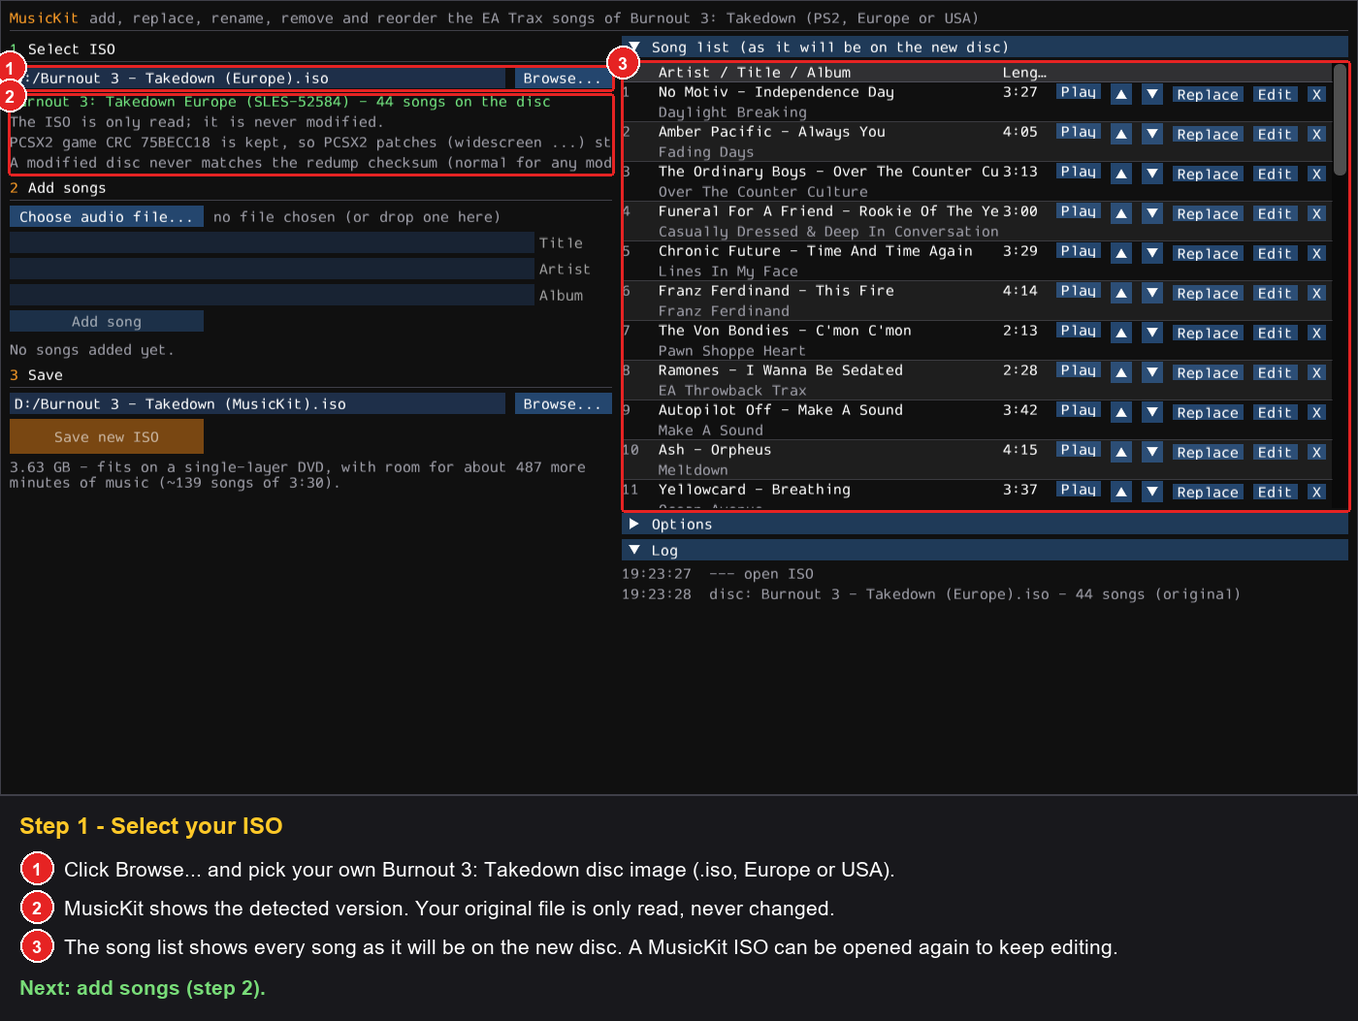
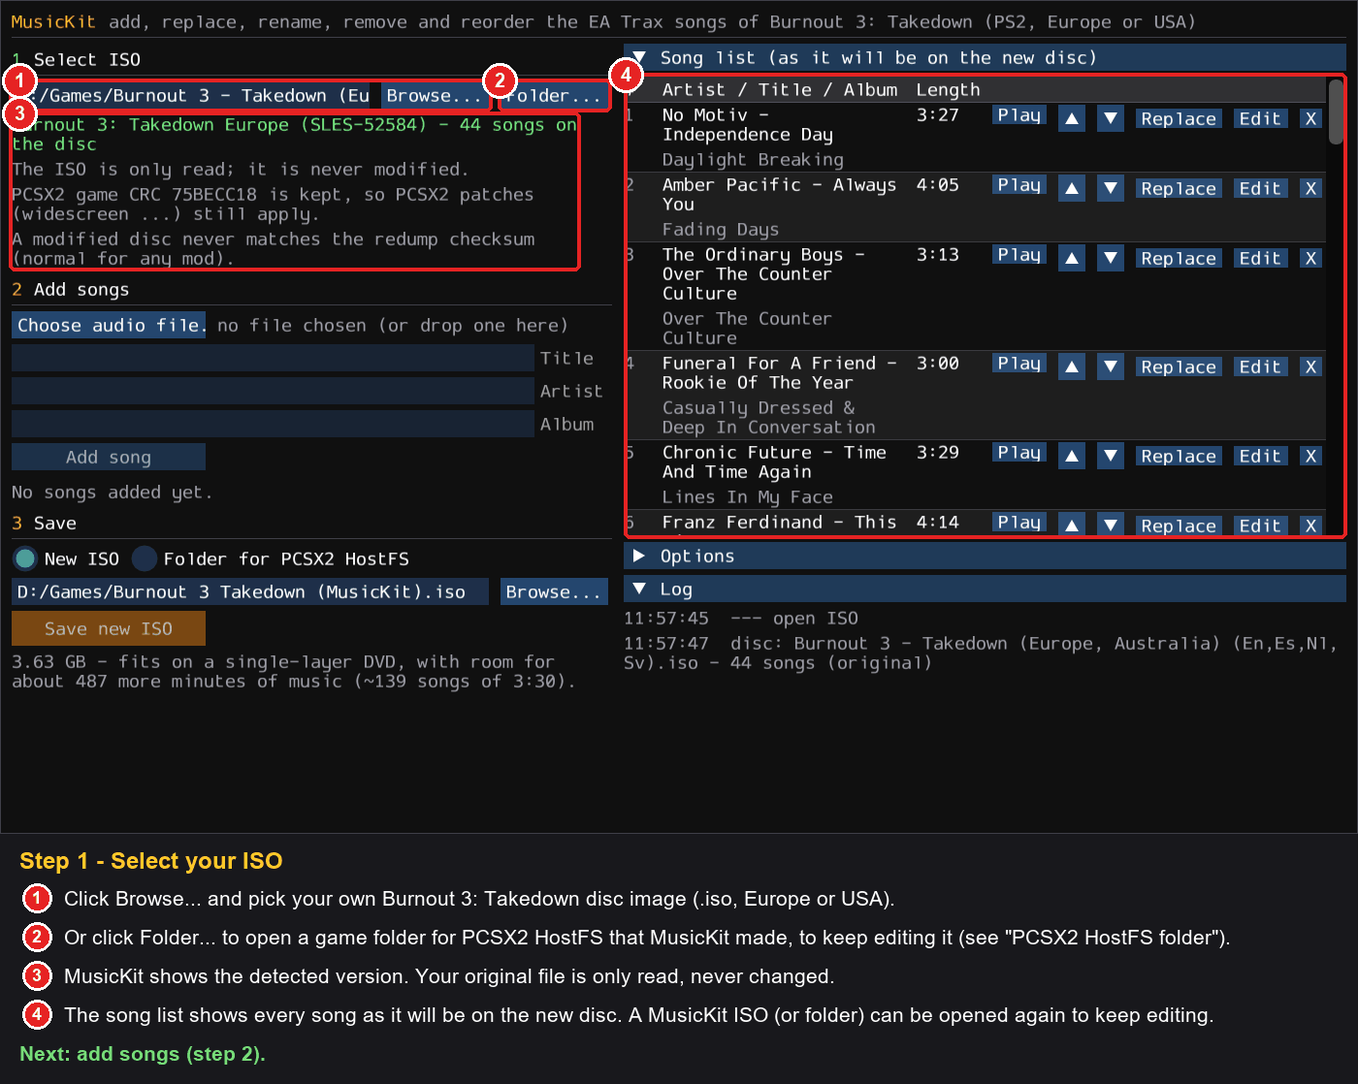
README: HostFS folder, combining mods, setup, new screenshots
- Install: Python 3.12-3.15 or none (private Python 3.13), what the setup does
- PCSX2 HostFS folder: save step by step, Play it in PCSX2 (Nahelam's patches,
  pnach names), combining mods, folders made by other tools
- Screenshots re-made for the current window (Folder..., output choice,
  HostFS before/after saving) and PCSX2 settings for HostFS

diff --git a/README.md b/README.md
@@ -12,9 +12,10 @@ song, the original ones included.
   - Europe / Australia — `SLES-52584` (English, Spanish, Dutch and Swedish texts)
   - Europe — `SLES-52585` (French, German and Italian texts)
   - USA — `SLUS-21050`
-- Your original image is **only read, never modified**; MusicKit writes a **new** `.iso`.
-- Songs: MP3, FLAC, WAV, OGG, M4A … (anything ffmpeg can read), up to 95 songs in total.
-- Add, replace, rename, remove and reorder songs — and reopen an image MusicKit made to keep editing it.
+- Your original image is **only read, never modified**; MusicKit writes a **new** `.iso` — or, for PCSX2, saves
+  into a **game folder** ([PCSX2 HostFS](#pcsx2-hostfs-folder-no-new-iso)), where later changes take seconds.
+- Songs: MP3, FLAC, WAV, OGG, M4A … (anything ffmpeg can read), up to **95 songs** in total.
+- Add, replace, rename, remove and reorder songs — and reopen an image (or folder) MusicKit made to keep editing it.
 - Optional: **Allow switching any song OFF** in the game's EA Trax list (see [below](#allow-switching-any-song-off)).
 - The new image keeps the game's PCSX2 CRC (`75BECC18` Europe SLES-52584, `CE49B0DE` Europe SLES-52585, `BEBF8793` USA), so **PCSX2 still recognises the
   game and applies its patches** (widescreen etc.).
@@ -35,12 +36,13 @@ song, the original ones included.
 ### Step 3 — Arrange the song list (optional)
 ![Step 3 - replace, rename, remove and reorder songs](docs/images/step3_song_list.png)
 
-### Step 4 — Save a new ISO
+### Step 4 — Save a new ISO (or a PCSX2 HostFS folder)
 ![Step 4 - save the new ISO](docs/images/step4_save.png)
 
 Before you save, MusicKit shows the size of the new image and how much more music still fits on a single-layer
 DVD (4.7 GB) — calculated from *your* image. If it would not fit, you see a warning; you can still save it (see
-[FAQ](#faq)).
+[FAQ](#faq)). For PCSX2 you can choose **Folder for PCSX2 HostFS** instead — see
+[PCSX2 HostFS folder](#pcsx2-hostfs-folder-no-new-iso).
 
 ### Step 5 — Play
 Load the new `.iso` in PCSX2 (or burn it / run it on your PS2) and open **Driver Details → EA GAMES™ TRAX**.
@@ -51,9 +53,9 @@ Load the new `.iso` in PCSX2 (or burn it / run it on your PS2) and open **Driver
 
 ## Guides
 
-Nothing is written until you click **Save new ISO** — every change below is only collected in the song list
-(right side), which shows the soundtrack exactly as it will be on the new disc. **Undo all changes** goes back to
-the song list of the opened image.
+Nothing is written until you click **Save new ISO** (or **Save to folder**) — every change below is only collected
+in the song list (right side), which shows the soundtrack exactly as it will be on the new disc. **Undo all
+changes** goes back to the song list of the opened image.
 
 ### Add songs
 *Choose audio file…* (or drop files on the window), type title / artist / album, click **Add song**. New songs are
@@ -78,7 +80,8 @@ Use ▲ / ▼ to move a song. Moved songs are tagged *[was #N]* with their old p
 
 ### Reopen a MusicKit ISO and keep editing
 Select an image MusicKit made in step 1: its current song list is read back from the disc (added and replaced
-songs are recognised). Change it like any other image and save another **new** `.iso`.
+songs are recognised). Change it like any other image and save another **new** `.iso`. A HostFS folder is opened
+with **Folder...** instead and saved into itself.
 
 ### Allow switching any song OFF
 In the original game the EA Trax list only lets you switch a song **OFF** after it has played to the end once —
@@ -108,25 +111,31 @@ the names fit. Names of removed songs make room for new ones.
 With PCSX2 you can also save your soundtrack into a **folder** instead of a new disc image. PCSX2's *Host
 Filesystem* then loads the game's files straight from that folder:
 
-- the first save copies the game's files from your ISO into the folder (once, about 3.5 GB);
+- the first save copies the game's files from your ISO into the folder (once, about 3.6 GB);
 - every later save only rewrites the files MusicKit changes (the song files, the song names and the game
   executable) — no new ISO each time, a save takes seconds;
-- there is no disc size limit in a folder.
+- there is no disc size limit in a folder;
+- **PCSX2 only** — a folder does not work on a real PS2.
 
-PCSX2 only (not a real PS2). The Criterion games need a small PCSX2 cheat to read from a folder:
+The Criterion games need a small PCSX2 cheat to read from a folder:
 **Nahelam's HostFS patches** ([PCSX2-HostFS-Patches](https://github.com/Nahelam/PCSX2-HostFS-Patches), folder
 [Criterion Games](https://github.com/Nahelam/PCSX2-HostFS-Patches/tree/main/Criterion%20Games)) — thanks to
 [Nahelam](https://github.com/Nahelam) for making them. MusicKit does not include that cheat; you download it once.
 
 ### Save into a folder
 1. Select your ISO in step 1 as usual and change the songs.
-2. In step 3 choose **Folder for PCSX2 HostFS** and pick an **empty folder** (or the folder of an earlier save).
+2. In step 3 choose **Folder for PCSX2 HostFS** and **Browse...** to an **empty folder** (or the folder of an
+   earlier save).
 3. Click **Save to folder**. MusicKit writes the game's files and a small boot image
-   `Burnout 3 Takedown (HostFS).iso` into the folder (it holds only `SYSTEM.CNF` and the game executable and is rebuilt on
-   every save).
+   `Burnout 3 Takedown (HostFS).iso` into the folder (it holds only `SYSTEM.CNF` and the game executable and is
+   rebuilt on every save).
+
+![Save into a PCSX2 HostFS folder](docs/images/hostfs_save.png)
 
 To change the songs again, open the folder in step 1 with **Folder...** (or click *Open this folder here* after
 saving) and save again — it is saved into itself. Your ISO is never changed.
+
+![After saving: open the folder again, and how to play it in PCSX2](docs/images/hostfs_saved.png)
 
 ### Play it in PCSX2 (once)
 1. Download the cheat for your version from
@@ -137,68 +146,84 @@ saving) and save again — it is saved into itself. Your ISO is never changed.
    - USA (SLUS-21050): `SLUS-21050_BEBF8793_hostfs.pnach`
 
    Put it into PCSX2's `cheats` folder (PCSX2: *Tools → Open Data Directory*).
-2. Add your folder to PCSX2's game list (*Settings → Game List → Add...*, without recursive scan). It shows
-   `Burnout 3 Takedown (HostFS).iso`.
+2. Add your folder to PCSX2's game list (*Settings → Game List → Add...*, without recursive scan). The game appears
+   as **Burnout 3 - Takedown**, only a few MB in size: that is the boot image `Burnout 3 Takedown (HostFS).iso`.
 3. Right-click it → *Properties*: on the *Emulation* page switch on **Enable Host Filesystem**; on the *Cheats* page
    switch on **Enable Cheats** and tick **HostFS**.
-4. Start `Burnout 3 Takedown (HostFS).iso`.
+4. Start it from the game list.
+
+![PCSX2: the folder in the game list, Enable Host Filesystem, Enable Cheats + HostFS](docs/images/pcsx2_hostfs.png)
 
 The game CRC stays the same, so PCSX2's widescreen patches and your other cheats still apply. MusicKit shows these
-steps after saving, too.
+steps after saving, too. As Nahelam notes, with the HostFS cheat the network configuration and the Need for Speed
+demo on the disc cannot be started (save your network settings on the memory card first if you play online).
 
-As Nahelam notes, with the HostFS cheat the network configuration and the Need for Speed demo on the disc cannot be started (save your network settings on the memory card first if you play online).
+- **Stop the game before you save** into its folder: the running game keeps its files open. On Windows MusicKit
+  then refuses to save (nothing is changed) and tells you why; restart the game after saving.
+- **Linux:** the game asks for its files in mixed letter case while the disc stores them in upper case. That only
+  works in a case-insensitive folder — on ext4 for example an empty folder with casefold switched on (`chattr +F`,
+  needs a file system created with casefold support). MusicKit warns when the folder is case-sensitive but still
+  lets you save and try. Windows and macOS (default file system) need nothing special.
 
-**Stop the game before you save** into its folder: the running game keeps its files open. On Windows MusicKit
-then refuses to save (nothing is changed) and tells you why; restart the game after saving.
+### Combining mods
 
-**Linux:** the game asks for its files in mixed letter case while the disc stores them in upper case. That only
-works in a case-insensitive folder — on ext4 for example an empty folder with casefold switched on (`chattr +F`,
-needs a file system created with casefold support). MusicKit warns when the folder is case-sensitive but still lets
-you save and try. Windows and macOS (default file system) need nothing special.
+- **Saving again:** always open the folder (not your ISO) and save — only the changed files are rewritten.
+- **Your ISO into a folder that already has the game:** MusicKit replaces only its own changes from your ISO. If
+  another mod changed the game executable there, MusicKit refuses (nothing is changed) and tells you to open the
+  folder instead — or pick an empty folder to start again from your ISO.
+- **Other mods are kept:** other people's file mods (replaced cars, textures, videos, extra files) are never
+  touched — MusicKit writes only the files it manages — and texts other mods changed in the game's text files
+  stay too. `validate` lists such files as notes, not as errors.
+- **PCSX2 cheats and patches** (widescreen etc.) keep working: the game CRC stays the same. The *HostFS* cheat is
+  only for the folder — **untick it** before you start a normal ISO of the same game (with it on, the ISO does not
+  start).
 
-### Other mods in the same folder
+<details>
+<summary><b>Folders made by other tools (7-Zip, Nahelam's guide) and what was tested</b></summary>
 
-- **Saving your ISO into a folder that already has the game** replaces only MusicKit's own changes from your ISO.
-  When another kit or mod changed the game executable there, MusicKit refuses (nothing is changed) and tells you
-  to open the folder instead (or to pick an empty folder to start again from your ISO).
-- **Other people's file mods** (replaced cars, textures, videos, extra files) are never touched: MusicKit writes only
-  the files it manages. Texts other mods changed in the game's text files are kept too. `validate` lists such
-  files as notes, not as errors.
-- **PCSX2 cheats** (widescreen and other patches) keep working: the game CRC stays the same. The per-game
-  *HostFS* cheat is only for the folder — **untick it** before you start a normal ISO of the same game
-  (with it on, the ISO does not start).
-- **Folders made by other tools** work: a folder extracted with 7-Zip, or set up as in Nahelam's guide (your own ISO
-  inside the folder). Start `Burnout 3 Takedown (HostFS).iso` then — your own ISO in the folder still starts the
-  game's original executable, without MusicKit's changes to it. MusicKit explains what to do when names still end in
-  `;1` (extract again with 7-Zip), when you picked the folder above the game's files, or when files are missing (an
-  unfinished extraction: save from your ISO into the folder and the missing files are copied).
+- A folder extracted with 7-Zip, or set up as in Nahelam's guide (your own ISO inside the folder), works. Start
+  `Burnout 3 Takedown (HostFS).iso` then — your own ISO in the folder still starts the game's original executable,
+  without MusicKit's changes to it.
+- MusicKit explains what to do when names still end in `;1` (extract again with 7-Zip), when you picked the folder
+  above the game's files, or when files are missing (an unfinished extraction: save from your ISO into the folder
+  and the missing files are copied).
+- Tested in PCSX2 2.8 (Europe discs): songs that exist only in the folder play from the folder in menus and races
+  (the boot image holds only `SYSTEM.CNF` and the executable); other mods' files and texts stayed unchanged through
+  every save.
 
-Tested in PCSX2 2.8 (Europe discs): songs that exist only in the folder play from the folder in menus and races (the
-boot image holds only `SYSTEM.CNF` and the executable); other mods' files and texts stayed unchanged through every
-save.
-
-Command line ([optional](#command-line-optional)): `build --iso "Burnout 3 - Takedown (Europe).iso" --folder "<folder>"`
-saves into a folder; `--iso "<folder>"` opens one (it is then saved into itself); `validate "<your ISO>" "<folder>"`
-checks a folder.
+</details>
 
 ## Requirements
 
 | What | Details |
 |---|---|
 | Operating system | Windows 10 or 11 (64-bit), macOS 14 Sonoma or newer (Apple Silicon or Intel), or 64-bit Linux (x86_64 or aarch64, glibc 2.28+; tested on Ubuntu 22.04 / 24.04) |
-| Python | any Python 3.12 or newer, or none at all — the setup picks an installed Python for which every package is available ready-made, or downloads a private Python 3.13 into the `.python` folder (no admin rights needed, about 100 MB) |
+| Python | Python 3.12 – 3.15 (64-bit), or none at all: the setup uses an installed Python for which every package is available ready-made, otherwise it downloads a private Python 3.13 into the `.python` folder (no admin rights needed, about 100 MB) |
 | Python packages | installed automatically by `setup.bat` / `setup.command` / `setup.sh` into a private `.venv`: numpy, numba, glfw, PyOpenGL, imgui-bundle, Pillow, soundfile, pyloudnorm, pycdlib, pytest (see [requirements.txt](requirements.txt)) |
 | ffmpeg | downloaded automatically by `setup.bat` / `setup.command` / `setup.sh` (or install it yourself: Windows `winget install Gyan.FFmpeg`, macOS `brew install ffmpeg`, Linux your package manager, e.g. `sudo apt install ffmpeg`) |
 | Graphics | any GPU with OpenGL 3.3 (for the MusicKit window) |
-| Disk space | about 5 GB free for the new disc image (~3–4 GB) plus ~1 GB for Python packages and ffmpeg |
+| Disk space | about 5 GB free for the new disc image (~3–4 GB) — or about 4 GB for a HostFS folder — plus ~1 GB for Python packages and ffmpeg |
 | The game | your own disc image (.iso) of Burnout 3: Takedown for PS2: Europe `SLES-52584` or `SLES-52585`, or USA `SLUS-21050` |
 | Internet | only once, during `setup.bat` / `setup.command` / `setup.sh` |
 
+### What the setup does
+The setup scripts never compile anything and change nothing outside the MusicKit folder:
+
+1. They look for an installed 64-bit Python (3.12 – 3.15) and use the first one for which **every** package is
+   available ready-made, in a private environment `.venv`.
+2. If there is no Python, or none can install the packages (e.g. a brand-new Python 3.15 before the packages have
+   caught up), they download a **private Python 3.13** into the `.python` folder with
+   [uv](https://astral.sh/uv) (download checked against a checksum) and use that one.
+3. They get **ffmpeg** (an installed one is used when present).
+
+Run the setup again at any time: it updates the packages, or rebuilds `.venv` if it no longer works (e.g. after
+you removed the Python it was made with). `MUSICKIT_PRIVATE_PYTHON=1` makes it skip the installed Pythons.
+
 ## Installation (Windows 10 / 11)
 
-1. Optional: install **Python 3.12 or newer** from <https://www.python.org/downloads/> (tick *"Add python.exe to PATH"*).
-   Without it, or when your Python is too new for some packages (e.g. a fresh 3.15), `setup.bat` downloads a
-   private Python into the `.python` folder by itself.
+1. Optional: install **Python 3.12 – 3.15** from <https://www.python.org/downloads/> (tick *"Add python.exe to
+   PATH"*). Without it, `setup.bat` downloads a private Python by itself (see
+   [What the setup does](#what-the-setup-does)).
 2. Download this repository (green **Code** button → *Download ZIP*) and unpack it, or `git clone` it.
 3. Double-click **`setup.bat`** once. It creates a private Python environment in `.venv` and downloads
    **ffmpeg** into the `ffmpeg` folder (used to read MP3/FLAC/OGG/… files). Nothing is installed system-wide.
@@ -210,9 +235,9 @@ checks a folder.
 
 For Apple Silicon (M1 and newer) and Intel Macs with macOS 14 Sonoma or newer.
 
-1. Optional: install **Python 3.12 or newer** from <https://www.python.org/downloads/macos/> (or with
-   [Homebrew](https://brew.sh): `brew install python`). Without it, or when your Python is too new for some
-   packages, `setup.command` downloads a private Python into the `.python` folder by itself.
+1. Optional: install **Python 3.12 – 3.15** from <https://www.python.org/downloads/macos/> (or with
+   [Homebrew](https://brew.sh): `brew install python`). Without it, `setup.command` downloads a private Python by
+   itself (see [What the setup does](#what-the-setup-does)).
 2. Download this repository (green **Code** button → *Download ZIP*) and unpack it, or `git clone` it.
 3. Double-click **`setup.command`** once. It opens a Terminal window, creates a private Python environment in
    `.venv` and downloads **ffmpeg** into the `ffmpeg` folder (an ffmpeg installed with Homebrew is used instead
@@ -235,9 +260,9 @@ For Apple Silicon (M1 and newer) and Intel Macs with macOS 14 Sonoma or newer.
 For 64-bit Linux on x86_64 or aarch64 (glibc 2.28 or newer; Alpine / musl is not supported). Tested in CI on
 Ubuntu 22.04 and 24.04 (x86_64); other distributions (Debian, Fedora, Arch, openSUSE, Mint, ...) should work the same way.
 
-1. Install the system packages. Python is optional: `./setup.sh` uses an installed Python 3.12 or newer (on
-   Debian / Ubuntu with its separate `venv` package) and otherwise downloads a private Python into the `.python`
-   folder by itself:
+1. Install the system packages. Python is optional: `./setup.sh` uses an installed Python 3.12 – 3.15 (on
+   Debian / Ubuntu with its separate `venv` package) and otherwise downloads a private Python by itself (see
+   [What the setup does](#what-the-setup-does)):
    - Debian / Ubuntu / Mint: `sudo apt install python3 python3-venv python3-pip libgl1 libegl1 libxkbcommon0 zenity`
    - Fedora: `sudo dnf install python3 python3-pip mesa-libGL mesa-libEGL libxkbcommon zenity`
    - Arch / Manjaro: `sudo pacman -S python python-pip mesa libglvnd libxkbcommon zenity`
@@ -246,13 +271,13 @@ Ubuntu 22.04 and 24.04 (x86_64); other distributions (Debian, Fedora, Arch, open
      on KDE) is used for the file and folder dialogs; without it, the dialogs do not open. The GLFW and
      imgui-bundle wheels bring everything else. A sound player (`paplay`, `aplay` or `ffplay`) is used for previews.
 2. Download this repository (green **Code** button → *Download ZIP*) and unpack it, or `git clone` it.
-3. Open a terminal in the folder and run **`./setup.sh`** once. It creates a private Python environment in `.venv` and downloads **ffmpeg** into the `ffmpeg` folder (an ffmpeg installed with your package manager is used instead
-   when present).
-   Nothing is installed system-wide. If you get *"Permission denied"*, run `chmod +x *.sh` first.
+3. Open a terminal in the folder and run **`./setup.sh`** once. It creates a private Python environment in `.venv`
+   and downloads **ffmpeg** into the `ffmpeg` folder (an ffmpeg installed with your package manager is used instead
+   when present). Nothing is installed system-wide. If you get *"Permission denied"*, run `chmod +x *.sh` first.
    - If the ffmpeg download fails, install ffmpeg with your package manager (`sudo apt install ffmpeg`, `sudo dnf install ffmpeg`,
      `sudo pacman -S ffmpeg`), then run `./setup.sh` again.
 4. Start **`./MusicKit.sh`** and keep the terminal open while you use MusicKit. Settings and the log (`gui.log`) are kept in
-   `~/.config/musickit` (or `$XDG_CONFIG_HOME/musickit`).
+   `~/.config/musickit-burnout3` (or `$XDG_CONFIG_HOME/musickit-burnout3`).
 
 The Windows version also runs under Wine, but use the native Linux version.
 
@@ -289,7 +314,9 @@ something).
 | forget all pending changes | `reset` |
 | save the new image | `build --iso "Burnout 3 - Takedown (Europe).iso" --out "Burnout 3 - Takedown (MusicKit).iso"` |
 | … and allow switching any song OFF | add `--unlock-off` to `build` (also works without any other change) |
-| check a new image | `validate "Burnout 3 - Takedown (Europe).iso" "Burnout 3 - Takedown (MusicKit).iso"` |
+| save into a PCSX2 HostFS folder instead | `build --iso "Burnout 3 - Takedown (Europe).iso" --folder "<folder>"` |
+| change the songs of a folder again | `--iso "<folder>"` with `list`, `replace`, … and `build` (saved into itself) |
+| check a new image / a folder | `validate "Burnout 3 - Takedown (Europe).iso" "Burnout 3 - Takedown (MusicKit).iso"` · `validate "Burnout 3 - Takedown (Europe).iso" "<folder>"` |
 
 Per-language options: `--title-en`, `--title-sp`, `--title-du`, `--title-sw` (European disc), `--title-us` (USA
 disc), and the same for `--artist-…` and `--album-…`.
@@ -307,8 +334,8 @@ decode; it also tells you whether the image fits on a single-layer DVD.
 image — it simply is not the original pressing anymore. It does not affect the game or PCSX2 patches: the game CRC
 (shown in PCSX2's game properties) stays the same.
 
-**Can I change the songs again later?** Yes. Open the image MusicKit made and add, replace, rename, remove or
-reorder songs; MusicKit reads the current song list back from that image.
+**Can I change the songs again later?** Yes. Open the image (or folder) MusicKit made and add, replace, rename,
+remove or reorder songs; MusicKit reads the current song list back from it.
 
 **Will my save game still work?** Yes. Adding songs, replacing audio and renaming keep every EA Trax setting where
 it is; new songs default to *ALL* (menus and races). The game saves the setting of the first 44 positions only, so
@@ -317,8 +344,12 @@ settings of positions 1–44 — see [Save games](#save-games-removing-or-reorde
 
 **How many songs can the disc have?** From 1 up to 95 songs in total.
 
-**My songs don't show up.** Make sure you started the *new* `.iso`. Added songs are at the end of the EA GAMES TRAX
-list unless you moved them.
+**My songs don't show up.** Make sure you started the *new* `.iso` (or, for a folder, the `(HostFS).iso` with Host
+Filesystem and the HostFS cheat switched on). Added songs are at the end of the EA GAMES TRAX list unless you moved
+them.
+
+**My normal ISO does not start any more.** The *HostFS* cheat is still ticked for this game: untick it in the
+game's *Properties → Cheats* (it is only for the folder).
 
 **MusicKit says the song names do not fit.** See
 [Song names and the game's text memory](#song-names-and-the-games-text-memory): shorten some titles, artists or
@@ -327,7 +358,7 @@ albums (the message tells you by how much), or add fewer songs.
 **Why does MusicKit warn that my image is too big to burn?** A normal (single-layer) DVD holds 4.7 GB. With a lot
 of added or long songs the new image can get bigger than that. It still works in emulators such as PCSX2, but it
 cannot be burned to a normal DVD for a real PS2 — remove or shorten songs until the warning is gone if you want
-to burn it.
+to burn it. A HostFS folder has no size limit.
 
 **I can't switch some original songs OFF.** That is how the original game works: a song can only be switched OFF
 after it has played to the end once. Songs added with MusicKit are never locked. To lift the lock for every song,
@@ -339,6 +370,11 @@ game CRC stays the same.
 - [Burnout Revenge MusicKit](https://github.com/Bondimm/burnout-revenge-musickit) — add, replace, rename, remove and reorder the EA Trax songs of Burnout Revenge (PS2).
 - [Burnout Dominator MusicKit](https://github.com/Bondimm/burnout-dominator-musickit) — the same for Burnout Dominator (PS2).
 - [Burnout Revenge ChainKit](https://github.com/Bondimm/burnout-revenge-chainkit) — Burnout Dominator's supercharge and Burnout chain for Burnout Revenge (PS2).
+
+## Thanks
+
+- [Nahelam](https://github.com/Nahelam) for the
+  [PCSX2 HostFS patches](https://github.com/Nahelam/PCSX2-HostFS-Patches) that make the folder mode possible.
 
 ## Legal
 
@@ -355,7 +391,8 @@ game CRC stays the same.
 - **Bring your own game.** You need your own, legally obtained copy of Burnout 3: Takedown and must create the disc
   image from it yourself. MusicKit does not bypass any copy protection; it only edits a copy of your own image.
 - **Do not share modified disc images.** Disc images contain the game, which is copyrighted by Electronic Arts.
-  Uploading or distributing them — modified or not — is not allowed.
+  Uploading or distributing them — modified or not — is not allowed. The same goes for HostFS game folders: they
+  hold the game's files.
 - **Music rights.** Songs belong to their artists and labels. Only add music you are allowed to use, keep your
   modified image for personal use, and do not distribute images or files that contain other people's music.
 - **No warranty.** The software is provided "as is", without warranty of any kind (see [LICENSE](LICENSE)).
